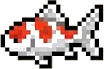
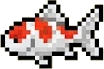
Add files via upload

diff --git a/index.html b/index.html
@@ -199,6 +199,7 @@
         <button id="login-btn" class="btn-primary">登入</button>
         <button id="register-btn" class="btn-secondary">註冊新帳號</button>
         <div id="auth-error"></div>
+        <div id="reg-closed-note" style="display:none; margin-top:8px; font-size:13px; color:#c0392b;">🚫 管理員已暫時禁止註冊新帳號</div>
     </div>
 
     <div id="app-container" class="container" style="display: flex;">
@@ -209,6 +210,7 @@
                     <button id="logout-btn" style="background:none; border:1px solid white; color:white; padding:3px 8px; border-radius:5px; cursor:pointer; font-size:12px;">登出</button>
                 </div>
                 <div class="sidebar-subtitle">用真名交友，但請保護朋友隱私 🤫</div>
+                <button id="reg-toggle-btn" style="display:none; background:#27ae60; border:none; color:white; padding:5px 10px; border-radius:5px; cursor:pointer; font-size:12px;">🔓 註冊：開放中</button>
             </div>
 
             <div id="request-section" style="display: none;">
@@ -536,7 +538,7 @@
 
     <script type="module">
         import { initializeApp } from "https://www.gstatic.com/firebasejs/10.8.0/firebase-app.js";
-        import { getAuth, signInWithEmailAndPassword, createUserWithEmailAndPassword, signOut, onAuthStateChanged, setPersistence, browserSessionPersistence } from "https://www.gstatic.com/firebasejs/10.8.0/firebase-auth.js";
+        import { getAuth, signInWithEmailAndPassword, createUserWithEmailAndPassword, signOut, deleteUser, onAuthStateChanged, setPersistence, browserSessionPersistence } from "https://www.gstatic.com/firebasejs/10.8.0/firebase-auth.js";
         import { getDatabase, ref, push, onChildAdded, onChildRemoved, serverTimestamp, get, set, onValue, remove, update, onDisconnect, runTransaction } from "https://www.gstatic.com/firebasejs/10.8.0/firebase-database.js";
         import { getStorage, ref as storageRef, uploadBytes, getDownloadURL } from "https://www.gstatic.com/firebasejs/10.8.0/firebase-storage.js";
 
@@ -636,6 +638,39 @@
         let userStatuses = {};
         let allUsersData = {};
 
+        // ===== 禁止註冊（管理員開關）=====
+        let registrationDisabled = false;
+        const regToggleBtn = document.getElementById('reg-toggle-btn');
+        const regClosedNote = document.getElementById('reg-closed-note');
+
+        function updateRegistrationUI() {
+            registerBtn.disabled = registrationDisabled;
+            registerBtn.style.opacity = registrationDisabled ? '0.5' : '';
+            registerBtn.style.cursor = registrationDisabled ? 'not-allowed' : '';
+            regClosedNote.style.display = registrationDisabled ? 'block' : 'none';
+            regToggleBtn.style.display = isAdmin && myUid ? 'inline-block' : 'none';
+            regToggleBtn.textContent = registrationDisabled ? '🔒 註冊：已禁止（點擊開放）' : '🔓 註冊：開放中（點擊禁止）';
+            regToggleBtn.style.background = registrationDisabled ? '#e74c3c' : '#27ae60';
+        }
+
+        onValue(ref(db, 'settings/registrationDisabled'), (snap) => {
+            registrationDisabled = snap.val() === true;
+            updateRegistrationUI();
+        }, (err) => {
+            console.warn('無法讀取註冊開關（請確認資料庫規則）:', err.message);
+        });
+
+        regToggleBtn.addEventListener('click', async () => {
+            if (!isAdmin || !myUid) return;
+            const next = !registrationDisabled;
+            if (!confirm(next ? '確定要禁止新用戶註冊嗎？' : '確定要重新開放註冊嗎？')) return;
+            try {
+                await set(ref(db, 'settings/registrationDisabled'), next);
+            } catch (e) {
+                alert('設定失敗：' + e.message + '\n\n請確認 Firebase 資料庫規則是否已允許管理員寫入 settings。');
+            }
+        });
+
         function showError(msg) { authError.textContent = msg; authError.style.display = 'block'; }
         function getFakeEmail(nickname) { return nickname + "@chat.app"; }
 
@@ -668,8 +703,17 @@
             if (!nickname || !password) return showError('請輸入暱稱和密碼');
             if (nickname.includes('@')) return showError('暱稱不能包含 @ 符號');
             if (password.length < 6) return showError('密碼至少需要 6 個字元');
+            if (registrationDisabled) return showError('🚫 目前已禁止註冊新帳號');
             createUserWithEmailAndPassword(auth, getFakeEmail(nickname), password)
-                .then((userCredential) => {
+                .then(async (userCredential) => {
+                    // 建立後再確認一次：若此時已被禁止，就把剛建立的帳號刪掉
+                    let closed = false;
+                    try { closed = (await get(ref(db, 'settings/registrationDisabled'))).val() === true; } catch (e) {}
+                    if (closed) {
+                        try { await deleteUser(userCredential.user); } catch (e) { await signOut(auth); }
+                        showError('🚫 目前已禁止註冊新帳號');
+                        return;
+                    }
                     set(ref(db, 'users/' + userCredential.user.uid), { nickname: nickname, friends: {}, groups: {}, requests: {}, status: 'offline' });
                 })
                 .catch((error) => {
@@ -716,6 +760,7 @@
                 onDisconnect(myStatusRef).set('offline');
                 onDisconnect(ref(db, `users/${myUid}/lastSeen`)).set(serverTimestamp());
 
+                updateRegistrationUI();
                 loadFriends();
                 loadGroups();
                 loadRequests();
@@ -724,6 +769,7 @@
                 listenForDeleteResults();
             } else {
                 myUid = null; myNickname = null; currentChat = null;
+                updateRegistrationUI();
                 authContainer.style.display = 'flex';
                 appContainer.style.display = 'none';
                 groupList.innerHTML = ''; friendList.innerHTML = ''; requestList.innerHTML = ''; messagesDiv.innerHTML = '';
